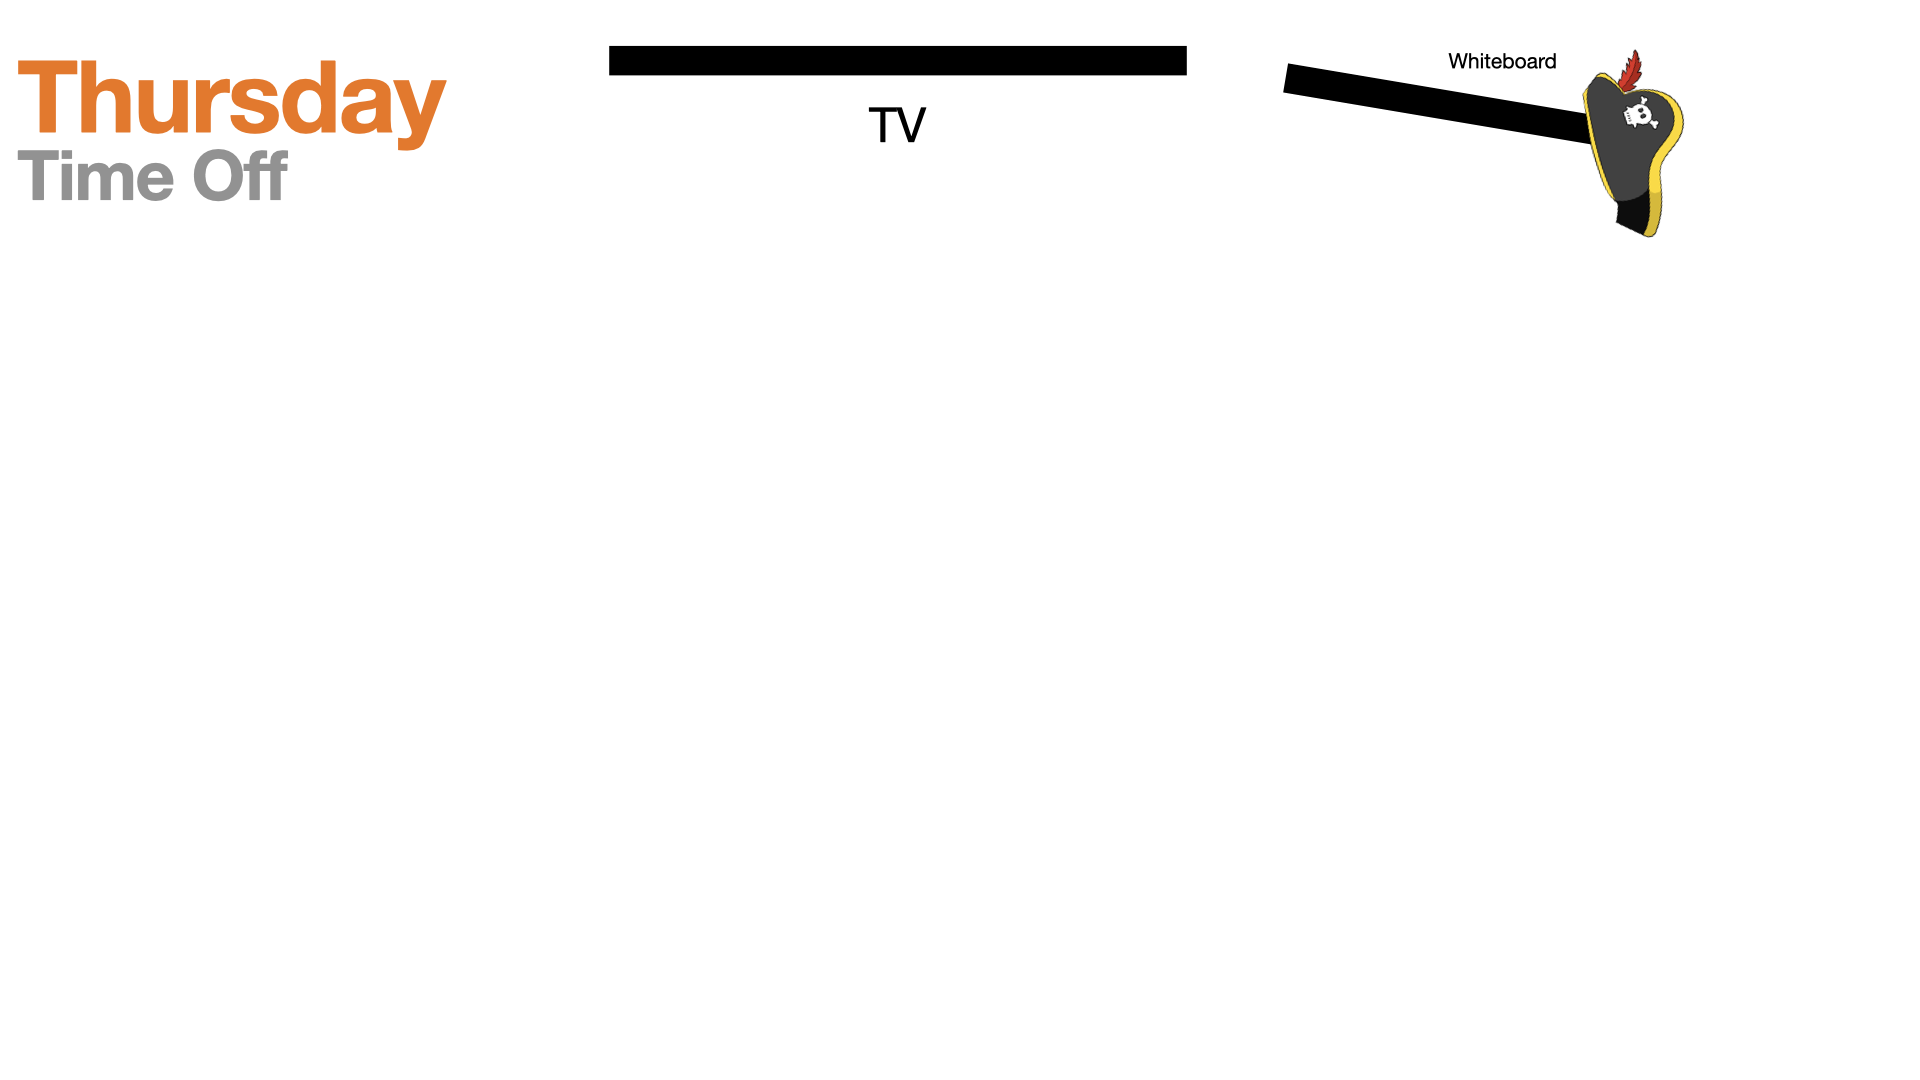
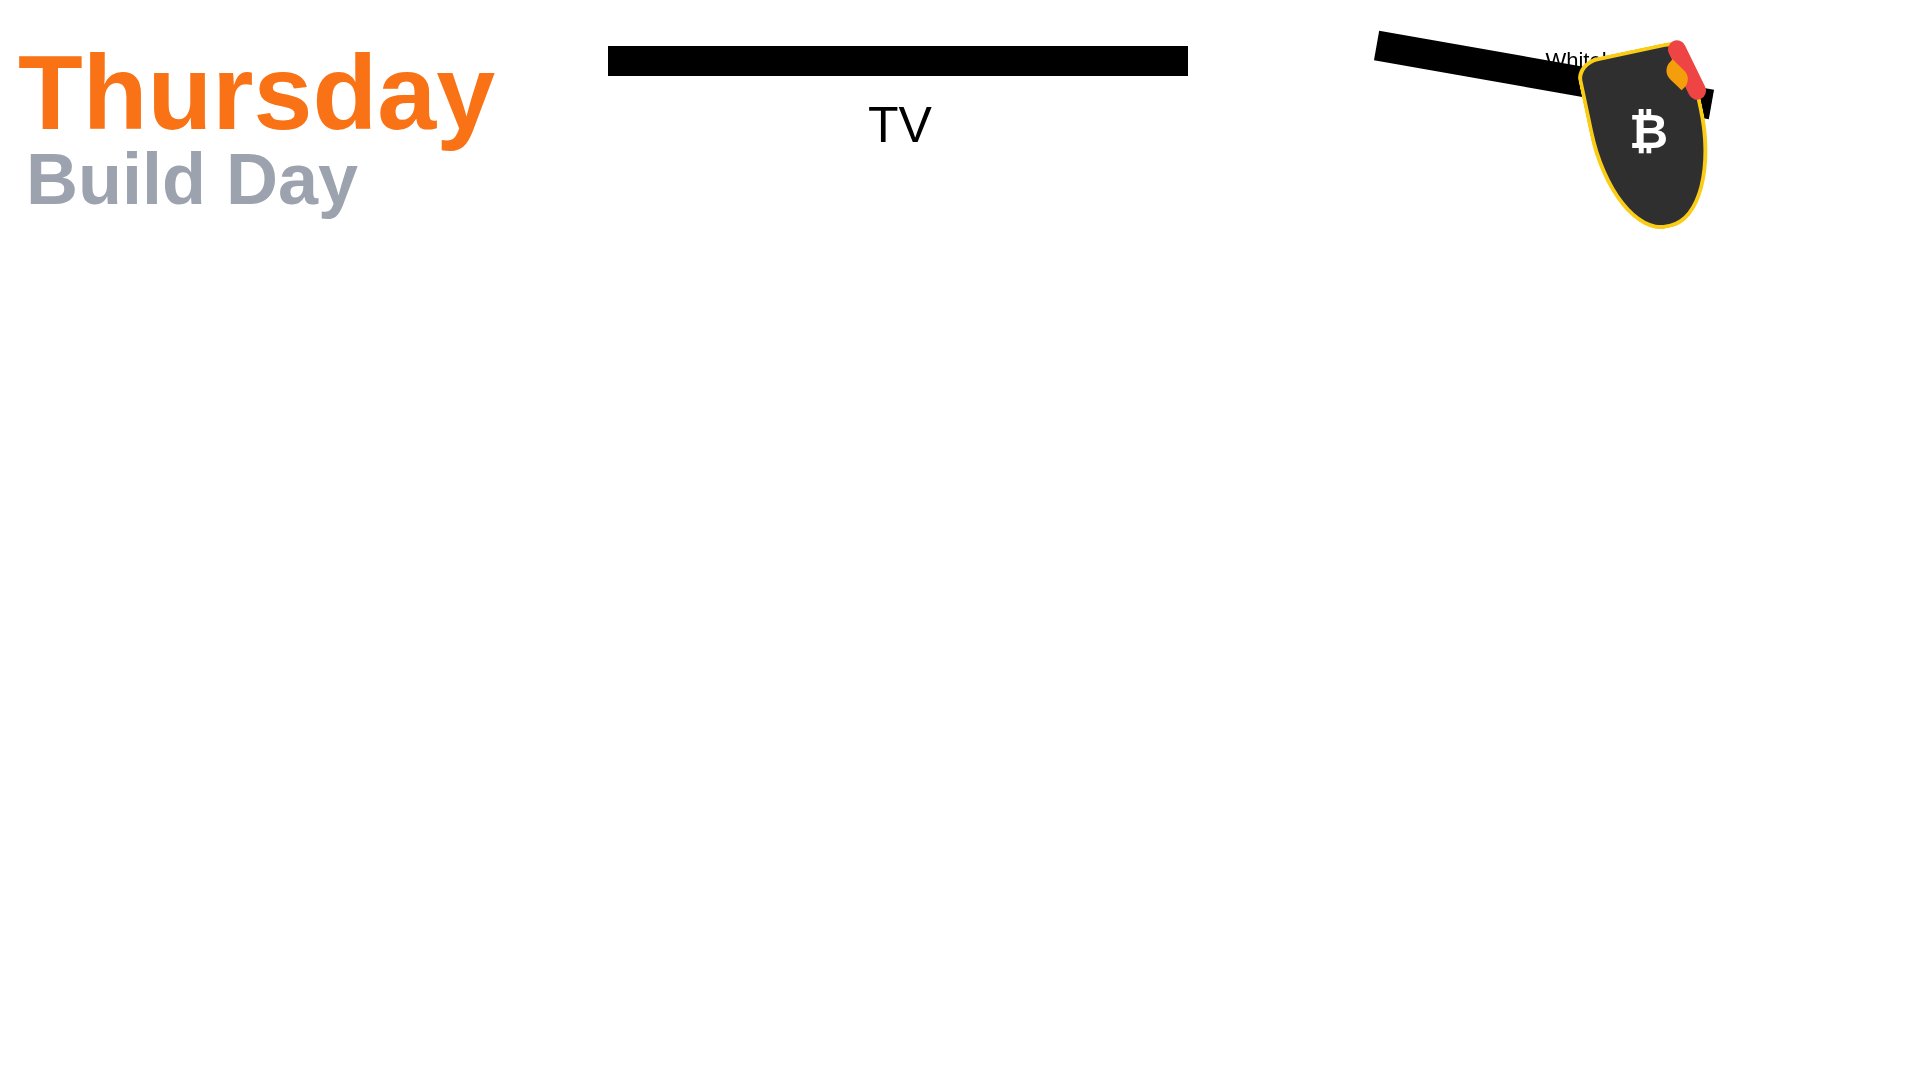
fix: update outdated weekly loop copy

Changed region(s): [[0.0, 0.0306, 0.2812, 0.2139], [0.6562, 0.0306, 0.9062, 0.2139], [0.4688, 0.0917, 0.5, 0.1222]]

diff --git a/src/content/concept/-index.md b/src/content/concept/-index.md
@@ -9,7 +9,7 @@ intro:
   content: |
     Sovereign Engineering is a six-week, in-person program on the island of Madeira. Its purpose is to create the best possible environment for **high-bandwidth ideation, collaboration, and rapid prototyping** around Freedom Tech such as Bitcoin, Lightning, and Nostr.
 
-    The program runs on a relentless [weekly loop](/loop) designed for exploration: *Monday Mornings* set the theme for the week, *Tuesday Talks* provoke discussion, *Wednesday Workshops* transfer hands-on skills, *Thursday* offers time for reflection and experimentation, and by Friday's Demo Day every participant has completed an entire **show → talk → build** loop—ready to reset and do it again the following week.
+    The program runs on a relentless [weekly loop](/loop) designed for exploration: *Monday Mornings* set the theme for the week, *Tuesday Talks* provoke discussion, *Wednesday Workshops* transfer hands-on skills, *Thursday* protects unstructured build time for reflection, experimentation, and implementation, and by Friday's Demo Day every participant has completed an entire **show → talk → build** loop—ready to reset and do it again the following week.
 
     The program is **private and off the record**—a protected environment where value-aligned builders can think freely, experiment boldly, and ship rapidly without the constraints of too much public scrutiny. Bring 21 aligned people together in a place that is highly Bitcoin-friendly and beautiful, where a shift in perspective helps new ideas flourish—and remarkable things follow.
   image: 'www-life-path.png'
@@ -73,7 +73,7 @@ sections:
 
       **The Rotation**: By rotating leadership every week, the cohort practices the very autonomy it preaches. Leadership is shared, logistics are decentralized, and the program stays tight without feeling top-down.
 
-      **The Exception**: Week 4 is designated as "time off" because the program is quite intense. We learned over time that we need this break.
+      **The Six-Week Rhythm**: There is no designated off week. The cadence holds for the full six weeks, with Thursday kept intentionally unstructured so participants can code, pair, explore, and turn ideas into working demos.
     image: 'weekly-loop-schedule.png'
 
   - id: 'environment'